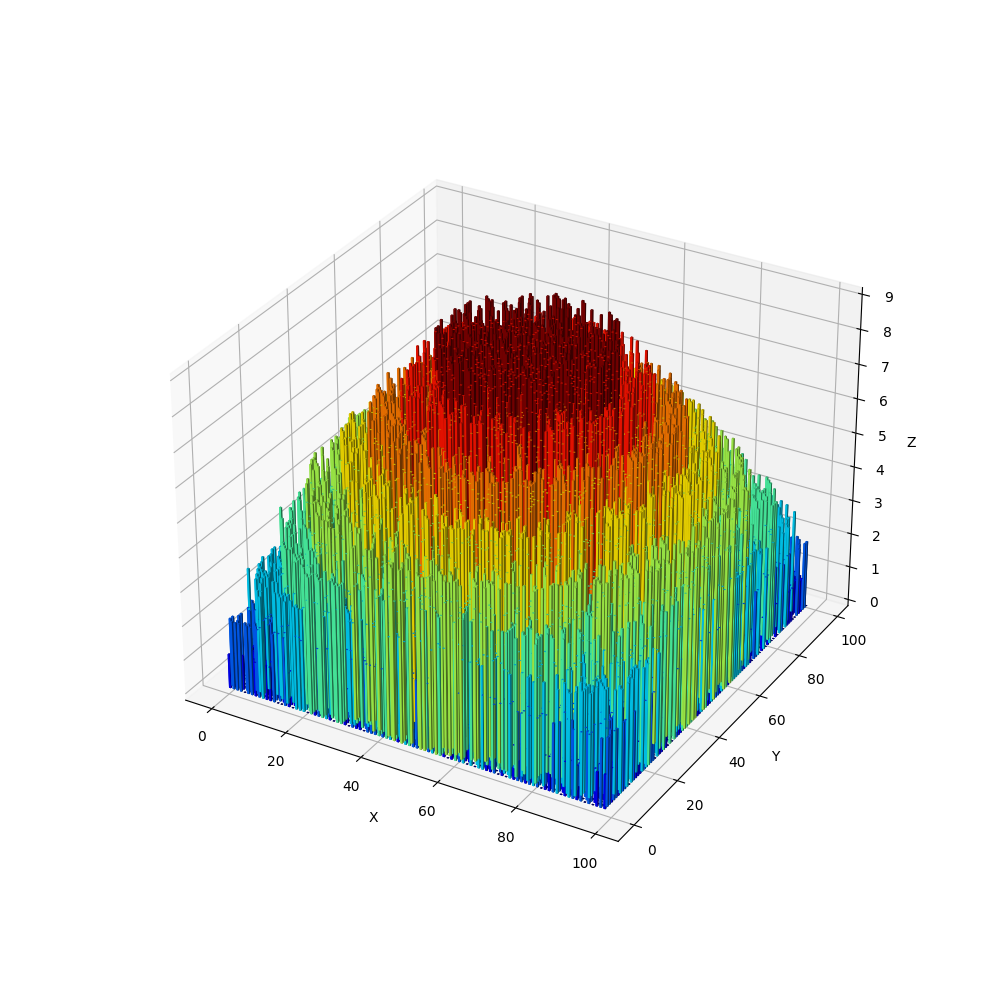
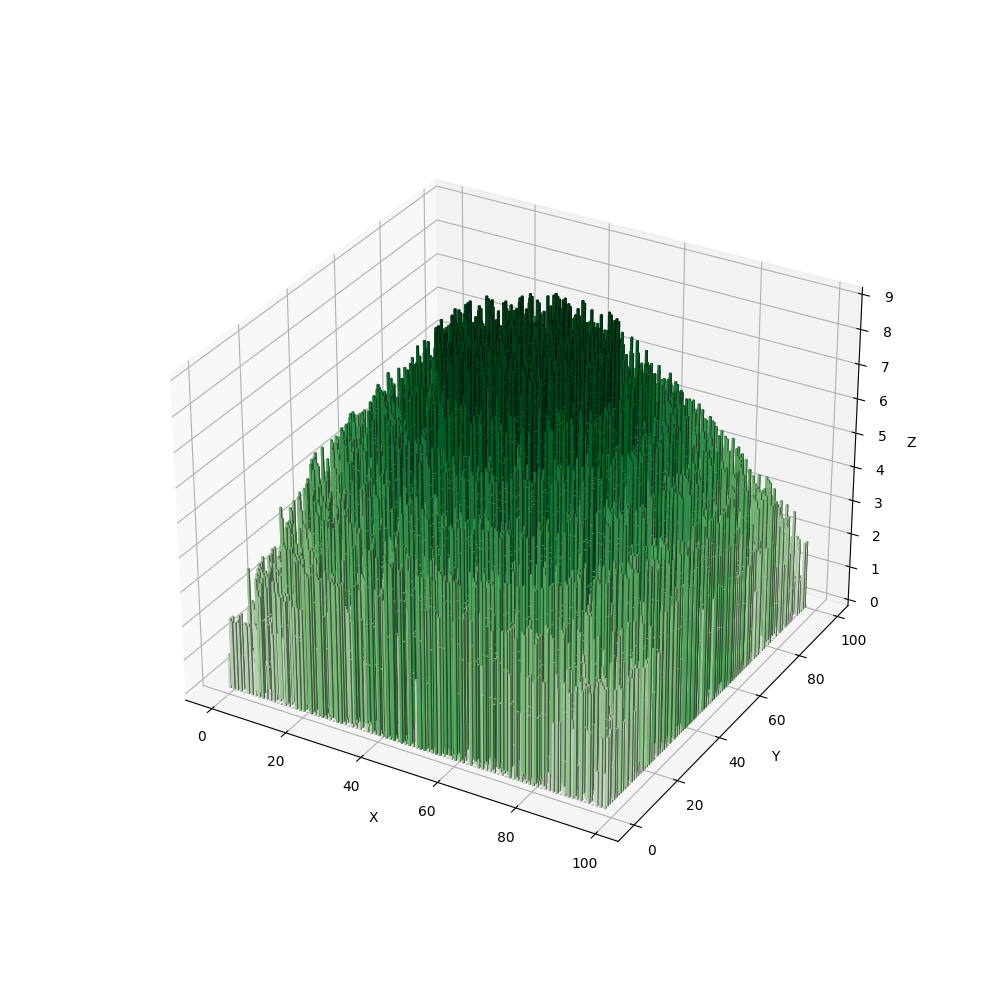
Day 8 Visualised

Changed region(s): [[0.217, 0.279, 0.806, 0.806]]

diff --git a/day08-visualisation.py b/day08-visualisation.py
@@ -25,7 +25,7 @@ zpos = np.zeros(xpos.shape)
 fig = plt.figure(figsize=(10, 10))
 ax = fig.add_subplot(111, projection='3d')
 
-colors = plt.cm.jet(data.flatten()/float(data.max()))
+colors = plt.cm.Greens(data.flatten()/float(data.max()))
 ax.bar3d(xpos,ypos,zpos, .5,.5,data.flatten(), color=colors)
 
 ax.set_xlabel('X')
